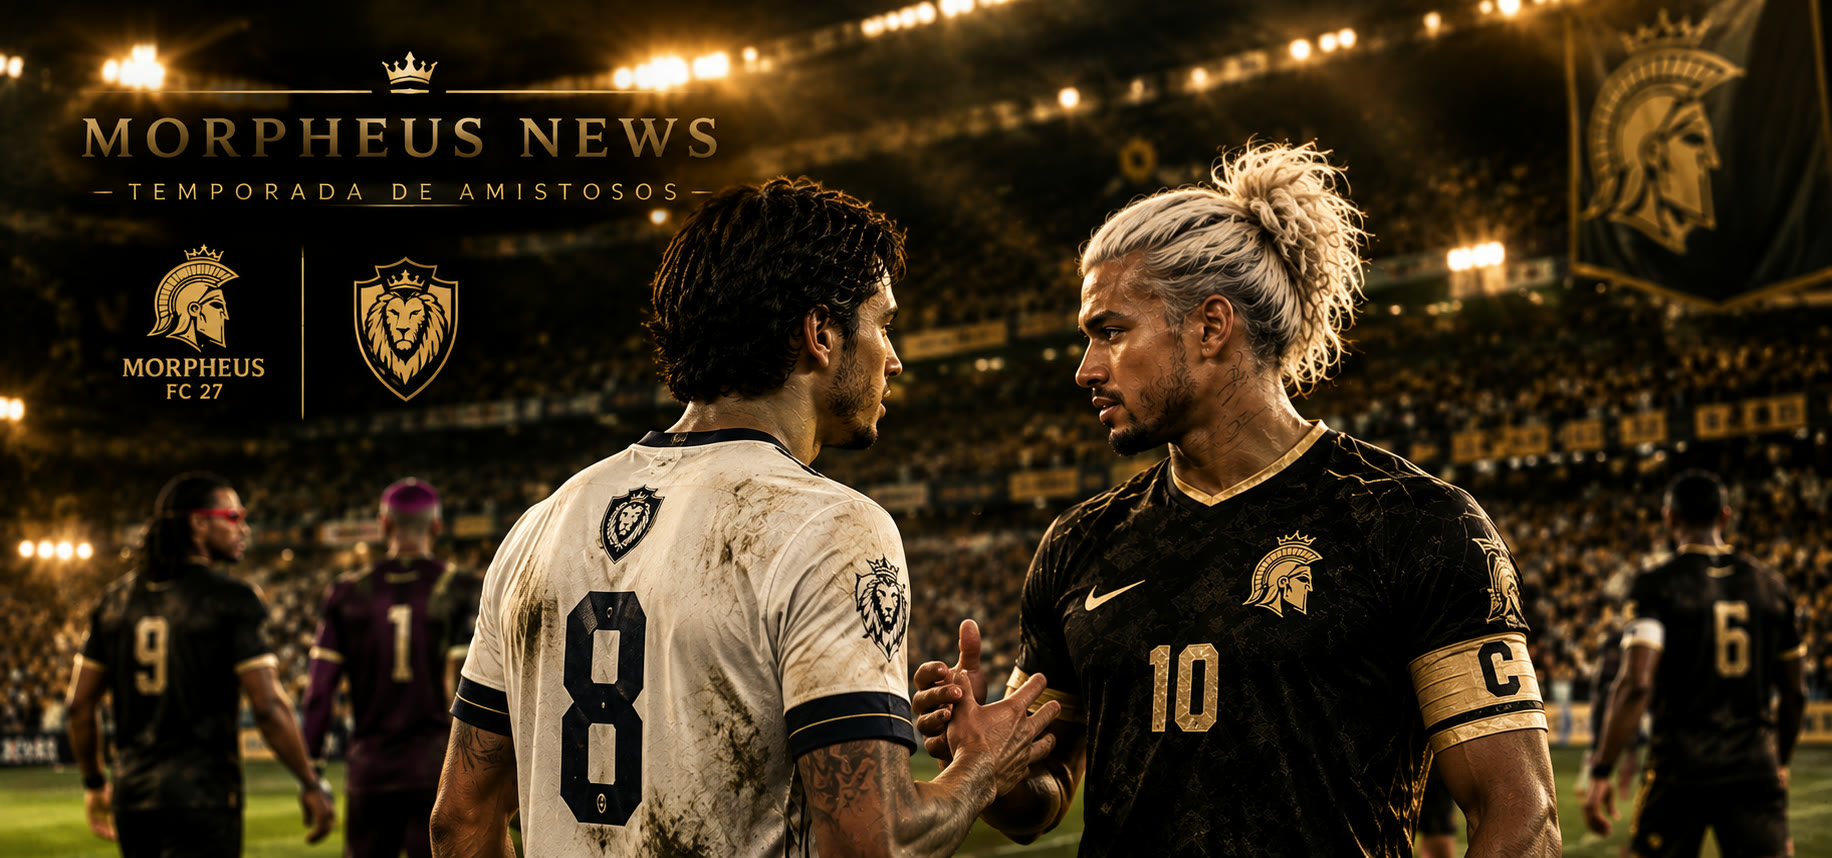
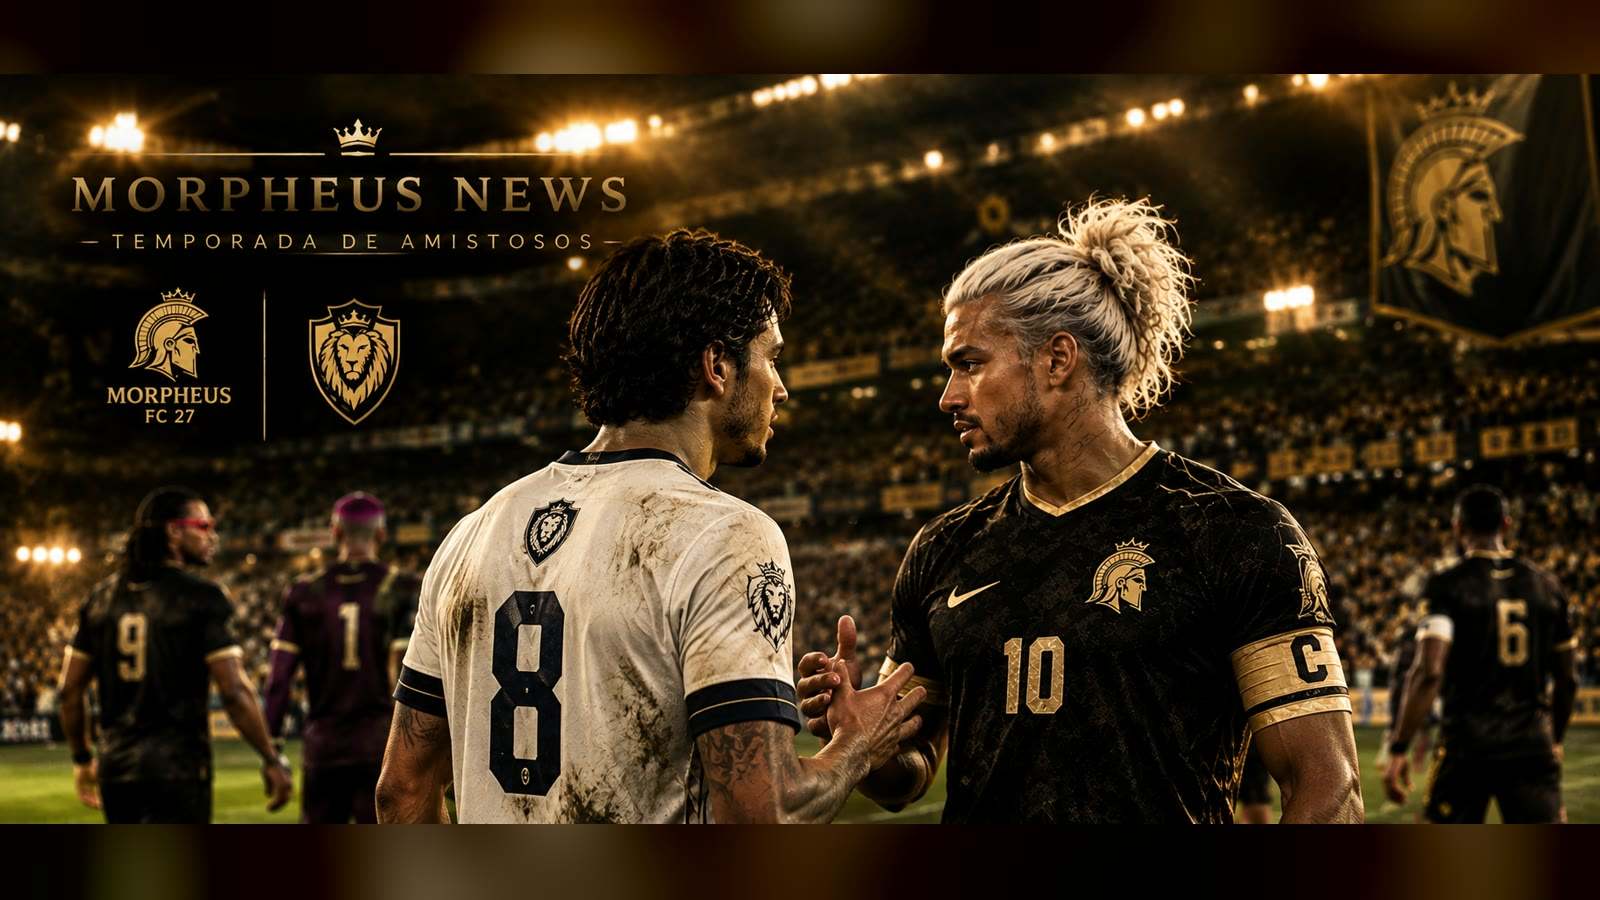
News: capa do amistoso em 16:9 (1600x900)

diff --git a/admin.html b/admin.html
@@ -9,8 +9,8 @@
 <link rel="preconnect" href="https://fonts.googleapis.com">
 <link rel="preconnect" href="https://fonts.gstatic.com" crossorigin>
 <link href="https://fonts.googleapis.com/css2?family=Barlow+Condensed:wght@500;600;700;800&family=Inter:wght@400;500;600&display=swap" rel="stylesheet">
-<link rel="stylesheet" href="assets/style.css?v=20261027a">
-<link rel="stylesheet" href="assets/admin-campeonato.css?v=20261027a">
+<link rel="stylesheet" href="assets/style.css?v=20261027c">
+<link rel="stylesheet" href="assets/admin-campeonato.css?v=20261027c">
 </head>
 <body data-page="admin">
 <nav id="nav"></nav>
@@ -18,13 +18,13 @@
 <footer id="footer"></footer>
 
 <script src="https://cdn.jsdelivr.net/npm/@supabase/supabase-js@2.45.4/dist/umd/supabase.min.js"></script>
-<script src="assets/data.js?v=20261027a"></script>
-<script src="assets/matches.js?v=20261027a"></script>
-<script src="assets/noticias.js?v=20261027a"></script>
-<script src="assets/videos.js?v=20261027a"></script>
-<script src="assets/config.js?v=20261027a"></script>
-<script src="assets/app.js?v=20261027a"></script>
-<script src="assets/admin-campeonato.js?v=20261027a"></script>
-<script src="assets/admin.js?v=20261027a"></script>
+<script src="assets/data.js?v=20261027c"></script>
+<script src="assets/matches.js?v=20261027c"></script>
+<script src="assets/noticias.js?v=20261027c"></script>
+<script src="assets/videos.js?v=20261027c"></script>
+<script src="assets/config.js?v=20261027c"></script>
+<script src="assets/app.js?v=20261027c"></script>
+<script src="assets/admin-campeonato.js?v=20261027c"></script>
+<script src="assets/admin.js?v=20261027c"></script>
 </body>
 </html>

diff --git a/noticias.html b/noticias.html
@@ -9,7 +9,7 @@
 <link rel="preconnect" href="https://fonts.googleapis.com">
 <link rel="preconnect" href="https://fonts.gstatic.com" crossorigin>
 <link href="https://fonts.googleapis.com/css2?family=Barlow+Condensed:wght@500;600;700;800&family=Inter:wght@400;500;600&family=Playfair+Display:ital,wght@0,600;0,800;1,500&display=swap" rel="stylesheet">
-<link rel="stylesheet" href="assets/style.css?v=20261027a">
+<link rel="stylesheet" href="assets/style.css?v=20261027c">
 </head>
 <body data-page="noticias">
 <nav id="nav"></nav>
@@ -17,11 +17,11 @@
 <main class="paper"><div class="wrap" id="paper"></div></main>
 
 <footer id="footer"></footer>
-<script src="assets/data.js?v=20261027a"></script>
-<script src="assets/matches.js?v=20261027a"></script>
-<script src="assets/noticias.js?v=20261027a"></script>
-<script src="assets/config.js?v=20261027a"></script>
-<script src="assets/cms.js?v=20261027a"></script>
-<script src="assets/app.js?v=20261027a"></script>
+<script src="assets/data.js?v=20261027c"></script>
+<script src="assets/matches.js?v=20261027c"></script>
+<script src="assets/noticias.js?v=20261027c"></script>
+<script src="assets/config.js?v=20261027c"></script>
+<script src="assets/cms.js?v=20261027c"></script>
+<script src="assets/app.js?v=20261027c"></script>
 </body>
 </html>

diff --git a/videos.html b/videos.html
@@ -9,7 +9,7 @@
 <link rel="preconnect" href="https://fonts.googleapis.com">
 <link rel="preconnect" href="https://fonts.gstatic.com" crossorigin>
 <link href="https://fonts.googleapis.com/css2?family=Barlow+Condensed:wght@500;600;700;800&family=Inter:wght@400;500;600&display=swap" rel="stylesheet">
-<link rel="stylesheet" href="assets/style.css?v=20261027a">
+<link rel="stylesheet" href="assets/style.css?v=20261027c">
 </head>
 <body data-page="videos">
 <nav id="nav"></nav>
@@ -41,12 +41,12 @@
 </dialog>
 
 <footer id="footer"></footer>
-<script src="assets/data.js?v=20261027a"></script>
-<script src="assets/matches.js?v=20261027a"></script>
-<script src="assets/videos.js?v=20261027a"></script>
-<script src="assets/config.js?v=20261027a"></script>
-<script src="assets/cms.js?v=20261027a"></script>
-<script src="assets/app.js?v=20261027a"></script>
-<script src="assets/scenes.js?v=20261027a"></script>
+<script src="assets/data.js?v=20261027c"></script>
+<script src="assets/matches.js?v=20261027c"></script>
+<script src="assets/videos.js?v=20261027c"></script>
+<script src="assets/config.js?v=20261027c"></script>
+<script src="assets/cms.js?v=20261027c"></script>
+<script src="assets/app.js?v=20261027c"></script>
+<script src="assets/scenes.js?v=20261027c"></script>
 </body>
 </html>

diff --git a/campeonato.html b/campeonato.html
@@ -9,8 +9,8 @@
 <link rel="preconnect" href="https://fonts.googleapis.com">
 <link rel="preconnect" href="https://fonts.gstatic.com" crossorigin>
 <link href="https://fonts.googleapis.com/css2?family=Barlow+Condensed:wght@500;600;700;800&family=Inter:wght@400;500;600&display=swap" rel="stylesheet">
-<link rel="stylesheet" href="assets/style.css?v=20261027a">
-<link rel="stylesheet" href="assets/campeonato.css?v=20261027a">
+<link rel="stylesheet" href="assets/style.css?v=20261027c">
+<link rel="stylesheet" href="assets/campeonato.css?v=20261027c">
 </head>
 <body data-page="campeonato">
 <nav id="nav"></nav>
@@ -18,10 +18,10 @@
 <main id="cp"></main>
 
 <footer id="footer"></footer>
-<script src="assets/data.js?v=20261027a"></script>
-<script src="assets/config.js?v=20261027a"></script>
-<script src="assets/campeonato-dados.js?v=20261027a"></script>
-<script src="assets/app.js?v=20261027a"></script>
-<script src="assets/campeonato.js?v=20261027a"></script>
+<script src="assets/data.js?v=20261027c"></script>
+<script src="assets/config.js?v=20261027c"></script>
+<script src="assets/campeonato-dados.js?v=20261027c"></script>
+<script src="assets/app.js?v=20261027c"></script>
+<script src="assets/campeonato.js?v=20261027c"></script>
 </body>
 </html>

diff --git a/comparar.html b/comparar.html
@@ -9,8 +9,8 @@
 <link rel="preconnect" href="https://fonts.googleapis.com">
 <link rel="preconnect" href="https://fonts.gstatic.com" crossorigin>
 <link href="https://fonts.googleapis.com/css2?family=Barlow+Condensed:wght@500;600;700;800&family=Inter:wght@400;500;600&display=swap" rel="stylesheet">
-<link rel="stylesheet" href="assets/style.css?v=20261027a">
-<link rel="stylesheet" href="assets/comparar.css?v=20261027a">
+<link rel="stylesheet" href="assets/style.css?v=20261027c">
+<link rel="stylesheet" href="assets/comparar.css?v=20261027c">
 </head>
 <body data-page="comparar">
 <nav id="nav"></nav>
@@ -32,9 +32,9 @@
 </div></main>
 
 <footer id="footer"></footer>
-<script src="assets/data.js?v=20261027a"></script>
-<script src="assets/matches.js?v=20261027a"></script>
-<script src="assets/app.js?v=20261027a"></script>
-<script src="assets/comparar.js?v=20261027a"></script>
+<script src="assets/data.js?v=20261027c"></script>
+<script src="assets/matches.js?v=20261027c"></script>
+<script src="assets/app.js?v=20261027c"></script>
+<script src="assets/comparar.js?v=20261027c"></script>
 </body>
 </html>

diff --git a/recrutamento.html b/recrutamento.html
@@ -9,7 +9,7 @@
 <link rel="preconnect" href="https://fonts.googleapis.com">
 <link rel="preconnect" href="https://fonts.gstatic.com" crossorigin>
 <link href="https://fonts.googleapis.com/css2?family=Barlow+Condensed:wght@500;600;700;800&family=Inter:wght@400;500;600&display=swap" rel="stylesheet">
-<link rel="stylesheet" href="assets/style.css?v=20261027a">
+<link rel="stylesheet" href="assets/style.css?v=20261027c">
 </head>
 <body data-page="recrutamento">
 <nav id="nav"></nav>
@@ -105,9 +105,9 @@
 </div></main>
 
 <footer id="footer"></footer>
-<script src="assets/data.js?v=20261027a"></script>
-<script src="assets/config.js?v=20261027a"></script>
-<script src="assets/app.js?v=20261027a"></script>
-<script src="assets/scenes.js?v=20261027a"></script>
+<script src="assets/data.js?v=20261027c"></script>
+<script src="assets/config.js?v=20261027c"></script>
+<script src="assets/app.js?v=20261027c"></script>
+<script src="assets/scenes.js?v=20261027c"></script>
 </body>
 </html>

diff --git a/partidas.html b/partidas.html
@@ -9,7 +9,7 @@
 <link rel="preconnect" href="https://fonts.googleapis.com">
 <link rel="preconnect" href="https://fonts.gstatic.com" crossorigin>
 <link href="https://fonts.googleapis.com/css2?family=Barlow+Condensed:wght@500;600;700;800&family=Inter:wght@400;500;600&display=swap" rel="stylesheet">
-<link rel="stylesheet" href="assets/style.css?v=20261027a">
+<link rel="stylesheet" href="assets/style.css?v=20261027c">
 </head>
 <body data-page="partidas">
 <nav id="nav"></nav>
@@ -36,9 +36,9 @@
 </div></main>
 
 <footer id="footer"></footer>
-<script src="assets/data.js?v=20261027a"></script>
-<script src="assets/matches.js?v=20261027a"></script>
-<script src="assets/app.js?v=20261027a"></script>
-<script src="assets/scenes.js?v=20261027a"></script>
+<script src="assets/data.js?v=20261027c"></script>
+<script src="assets/matches.js?v=20261027c"></script>
+<script src="assets/app.js?v=20261027c"></script>
+<script src="assets/scenes.js?v=20261027c"></script>
 </body>
 </html>

diff --git a/amistosos.html b/amistosos.html
@@ -9,7 +9,7 @@
 <link rel="preconnect" href="https://fonts.googleapis.com">
 <link rel="preconnect" href="https://fonts.gstatic.com" crossorigin>
 <link href="https://fonts.googleapis.com/css2?family=Barlow+Condensed:wght@500;600;700;800&family=Inter:wght@400;500;600&display=swap" rel="stylesheet">
-<link rel="stylesheet" href="assets/style.css?v=20261027a">
+<link rel="stylesheet" href="assets/style.css?v=20261027c">
 </head>
 <body data-page="amistosos">
 <nav id="nav"></nav>
@@ -90,9 +90,9 @@
 </div></main>
 
 <footer id="footer"></footer>
-<script src="assets/data.js?v=20261027a"></script>
-<script src="assets/config.js?v=20261027a"></script>
-<script src="assets/app.js?v=20261027a"></script>
-<script src="assets/scenes.js?v=20261027a"></script>
+<script src="assets/data.js?v=20261027c"></script>
+<script src="assets/config.js?v=20261027c"></script>
+<script src="assets/app.js?v=20261027c"></script>
+<script src="assets/scenes.js?v=20261027c"></script>
 </body>
 </html>

diff --git a/elenco.html b/elenco.html
@@ -9,7 +9,7 @@
 <link rel="preconnect" href="https://fonts.googleapis.com">
 <link rel="preconnect" href="https://fonts.gstatic.com" crossorigin>
 <link href="https://fonts.googleapis.com/css2?family=Barlow+Condensed:wght@500;600;700;800&family=Inter:wght@400;500;600&display=swap" rel="stylesheet">
-<link rel="stylesheet" href="assets/style.css?v=20261027a">
+<link rel="stylesheet" href="assets/style.css?v=20261027c">
 </head>
 <body data-page="elenco">
 <nav id="nav"></nav>
@@ -45,9 +45,9 @@
 </div></main>
 
 <footer id="footer"></footer>
-<script src="assets/data.js?v=20261027a"></script>
-<script src="assets/matches.js?v=20261027a"></script>
-<script src="assets/app.js?v=20261027a"></script>
-<script src="assets/scenes.js?v=20261027a"></script>
+<script src="assets/data.js?v=20261027c"></script>
+<script src="assets/matches.js?v=20261027c"></script>
+<script src="assets/app.js?v=20261027c"></script>
+<script src="assets/scenes.js?v=20261027c"></script>
 </body>
 </html>

diff --git a/index.html b/index.html
@@ -9,7 +9,7 @@
 <link rel="preconnect" href="https://fonts.googleapis.com">
 <link rel="preconnect" href="https://fonts.gstatic.com" crossorigin>
 <link href="https://fonts.googleapis.com/css2?family=Barlow+Condensed:wght@500;600;700;800&family=Inter:wght@400;500;600&display=swap" rel="stylesheet">
-<link rel="stylesheet" href="assets/style.css?v=20261027a">
+<link rel="stylesheet" href="assets/style.css?v=20261027c">
 </head>
 <body data-page="inicio">
 <nav id="nav"></nav>
@@ -71,9 +71,9 @@
 </section>
 
 <footer id="footer"></footer>
-<script src="assets/data.js?v=20261027a"></script>
-<script src="assets/matches.js?v=20261027a"></script>
-<script src="assets/app.js?v=20261027a"></script>
-<script src="assets/scenes.js?v=20261027a"></script>
+<script src="assets/data.js?v=20261027c"></script>
+<script src="assets/matches.js?v=20261027c"></script>
+<script src="assets/app.js?v=20261027c"></script>
+<script src="assets/scenes.js?v=20261027c"></script>
 </body>
 </html>

diff --git a/assets/app.js b/assets/app.js
@@ -13,7 +13,7 @@ const fmt = s => esc(s)
   .replace(/\[([^\]]+)\]\((https?:\/\/[^)\s]+)\)/g, '<a href="$2" target="_blank" rel="noopener">$1</a>');
 /* Foto ou vídeo: nome de arquivo (pasta assets/<tipo>/) ou endereço completo (nuvem). */
 /* ASSET_V: mude o numero quando trocar uma imagem/video mantendo o mesmo nome de arquivo (forca o navegador a baixar de novo) */
-const ASSET_V = "11";
+const ASSET_V = "12";
 const media = (kind, f) => /^https?:\/\//.test(f) ? f : `assets/${kind}/${f}?v=${ASSET_V}`;
 const ready = window.CMS_READY || Promise.resolve();
 /* PSN antiga -> PSN atual (config.apelidos em data.js): mostra o nome atual também nas partidas já guardadas. */
